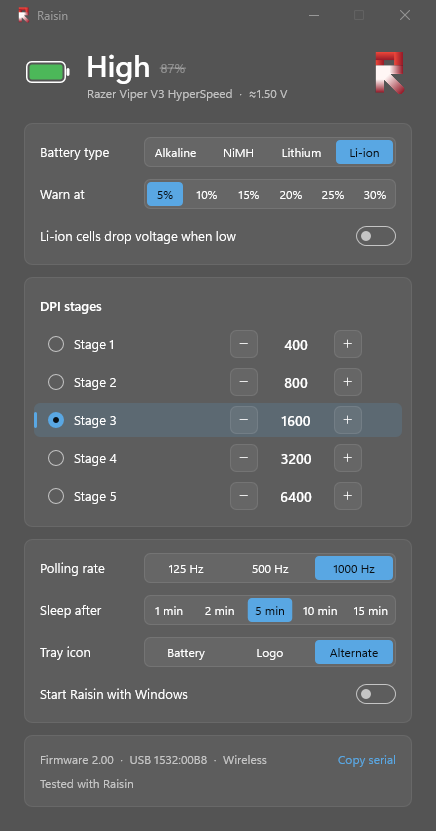
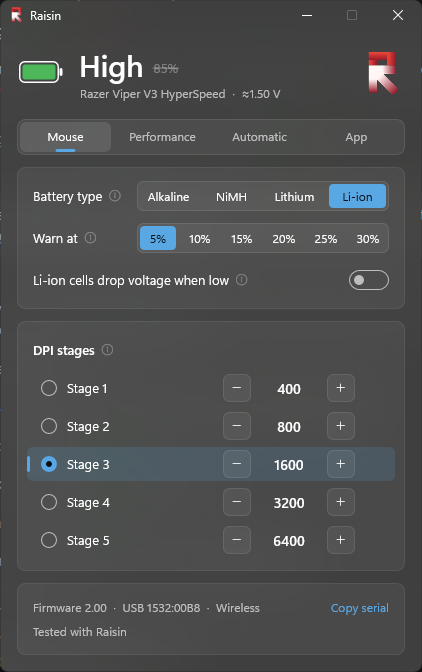
Update docs for 0.2.0
New tabbed screenshot, exe size, tray menu and shortcut docs, how events
replace polling, a SECURITY note on foreground-app names and hotkeys, and
module comments that still described the old single-page window.

diff --git a/src/auto.rs b/src/auto.rs
@@ -1,10 +1,10 @@
 //! Automatic switching: per-app rules and following Windows power.
 //!
 //! While an app with a rule is in front, its power mode and/or DPI stage
-//! apply. With "follow Windows power" on, Power Saver applies while the PC
-//! runs on battery or energy saver is on (an app rule's own power mode
-//! wins). When nothing applies any more, the settings from before the
-//! switch come back.
+//! apply. With "Power Saver on battery or energy saver" on, Power Saver
+//! applies while the PC runs on battery or energy saver is on (an app
+//! rule's own power mode wins). When nothing applies any more, the
+//! settings from before the switch come back.
 //!
 //! This module is pure logic; the tray app watches the foreground window
 //! and power state and writes the result to the mouse.

diff --git a/src/settings.rs b/src/settings.rs
@@ -1,8 +1,9 @@
 //! Settings window: custom-drawn with Direct2D/DirectWrite on a Windows 11
 //! acrylic backdrop. Follows the system light/dark theme and accent color.
 //!
-//! The layout adapts to the connected mouse: cards and rows only appear for
-//! features it has, and the window resizes to fit. It runs as its own
+//! The layout adapts to the connected mouse: tabs, cards and rows only
+//! appear for features it has. The window is as tall as its tallest tab and
+//! scrolls when the screen is too small. It runs as its own
 //! `raisin.exe --settings` process, so its memory goes back to Windows when
 //! it closes.
 

diff --git a/src/tray.rs b/src/tray.rs
@@ -1,5 +1,6 @@
-//! Tray app: battery icon, right-click menu, and an on-demand stage editor.
-//! Everything is plain Win32; the editor window only exists while open.
+//! Tray app: battery icon, right-click menu, automatic switching, the DPI
+//! popup and keyboard shortcuts. Everything here is plain Win32 and GDI;
+//! the Direct2D settings window runs as its own `--settings` process.
 
 use std::cell::RefCell;
 use std::mem::{size_of, zeroed};

diff --git a/src/hid.rs b/src/hid.rs
@@ -1,5 +1,6 @@
-//! Minimal Windows HID transport: enumerate HID interfaces and exchange
-//! feature reports. No external HID library, just SetupAPI + hid.dll.
+//! Minimal Windows HID transport: enumerate HID interfaces, exchange
+//! feature reports, and read input reports (mouse events). No external HID
+//! library, just SetupAPI + hid.dll.
 
 use std::ffi::c_void;
 use std::mem::{size_of, zeroed};

diff --git a/README.md b/README.md
@@ -6,7 +6,7 @@
 
 <p align="center">
   A tiny, fast replacement for Razer Synapse, for 118 Razer mice.<br>
-  DPI stages, polling rate, battery, scroll wheel and sleep settings, from a ~500 KB exe that idles at about 2 MB of memory.
+  DPI stages, polling rate, battery, power modes and per-app switching, from a ~550 KB exe that idles at about 2 MB of memory.
 </p>
 
 <p align="center">
@@ -16,7 +16,7 @@
 </p>
 
 <p align="center">
-  <img src="docs/screenshot.png" width="436" alt="Raisin settings window for a Viper V3 HyperSpeed: a Li-ion battery shown as High with the percentage crossed out, voltage, battery type, DPI stages, polling rate, sleep timer, tray icon options and firmware details">
+  <img src="docs/screenshot.png" width="422" alt="Raisin settings window for a Viper V3 HyperSpeed, on its Mouse tab: a Li-ion battery shown as High with the percentage crossed out, voltage, battery type and warning level, DPI stages, and firmware details, with Performance, Automatic and App tabs above">
 </p>
 
 ## Why
@@ -25,7 +25,7 @@ Synapse is a large Electron app with several background services, and it typical
 
 | | Raisin |
 |---|---|
-| Download | one `raisin.exe`, about 500 KB, no installer |
+| Download | one `raisin.exe`, about 550 KB, no installer |
 | Memory, in the tray | about 2 MB |
 | Memory, settings window open | about 11 MB (a separate process that exits when you close it) |
 | Drivers or services | none |
@@ -46,9 +46,9 @@ Synapse is a large Electron app with several background services, and it typical
 - **Info bubbles**: hover an (i) next to a setting to see what it does.
 - **Mouse details**: model, firmware version, USB ID, connection, and a one-click serial number copy for warranty claims.
 - **Tray icon**: battery gauge, logo, or alternating between them.
-- **Start with Windows**, and a **command line** for scripts and hotkeys.
+- **Start with Windows**, and a **command line** for scripts.
 
-The settings window only shows what your mouse supports, and settings are written to the mouse's own memory, so they stick even when Raisin isn't running. No RGB lighting control, by design.
+The settings window has four tabs (Mouse, Performance, Automatic, App) and only shows what your mouse supports. Settings are written to the mouse's own memory, so they stick even when Raisin isn't running. No RGB lighting control, by design.
 
 ## Supported mice
 
@@ -65,7 +65,7 @@ The protocol is shared across these mice and the details per model come from Ope
 
 1. Download `raisin.exe` from the [latest release](https://github.com/bladestech/Raisin/releases/latest).
 2. Run it. The tray icon appears; left-click it for settings, right-click for the quick menu.
-3. Optional: turn on **Start Raisin with Windows** in settings.
+3. Optional: turn on **Start Raisin with Windows** on the settings window's App tab.
 
 Requirements: Windows 10 or 11 (x64). The acrylic window background needs Windows 11; Windows 10 gets a solid background. Raisin needs the Microsoft Visual C++ runtime, which most PCs already have. If it won't start, install the [Visual C++ Redistributable](https://learn.microsoft.com/cpp/windows/latest-supported-vc-redist).
 
@@ -75,7 +75,9 @@ If Synapse is installed, quit it first: it overwrites settings and can hold the 
 
 ## Usage
 
-**Tray icon:** hover for battery, DPI and polling rate. Left-click opens settings; right-click opens a menu with the same options.
+**Tray icon:** hover for battery, DPI, polling rate and any automatic rule in effect. Left-click opens settings; right-click opens a quick menu with the everyday options (DPI stage, power mode, polling rate, sleep timer, battery).
+
+**Keyboard shortcuts** (turn on in Settings > App): Ctrl+Alt+= and Ctrl+Alt+- step through DPI stages, Ctrl+Alt+P cycles Power Saver, Balanced and Max.
 
 **Command line:**
 
@@ -112,9 +114,11 @@ The voltage shown is approximate: it's measured by the mouse under load, so it r
 
 Razer mice show up in Windows as standard HID devices. Raisin sends Razer's 90-byte configuration packets as HID feature reports through Windows' built-in `hid.dll`, the same path Synapse uses, without any kernel driver, service or admin rights.
 
-The tray process uses only plain Win32. The settings window is drawn with Direct2D and DirectWrite on a Windows 11 acrylic backdrop and runs as a separate `raisin.exe --settings` process, so the graphics libraries' memory is returned to Windows when you close it.
+The tray process uses only plain Win32 and GDI. The settings window is drawn with Direct2D and DirectWrite on a Windows 11 acrylic backdrop and runs as a separate `raisin.exe --settings` process, so the graphics libraries' memory is returned to Windows when you close it.
 
-Each model's details (USB ID, transaction ID, receiver timing, DPI and polling limits, which features it has) are in a table generated from OpenRazer by [`tools/openrazer_devices.py`](tools/openrazer_devices.py). The packet format and every command Raisin uses, including a few not documented elsewhere (battery type, live cell voltage), are in [docs/protocol.md](docs/protocol.md).
+Apart from reading the battery every 5 minutes, nothing polls in the background. The mouse reports DPI button presses itself, as small input reports that Raisin waits for. Automatic switching hears about the app in front and the power state from Windows notifications.
+
+Each model's details (USB ID, transaction ID, receiver timing, DPI and polling limits, which features it has) are in a table generated from OpenRazer by [`tools/openrazer_devices.py`](tools/openrazer_devices.py). The packet format and every command Raisin uses, including a few not documented elsewhere (battery type, live cell voltage, the DPI button event), are in [docs/protocol.md](docs/protocol.md).
 
 ## Building from source
 
@@ -140,7 +144,7 @@ See [CONTRIBUTING.md](CONTRIBUTING.md) for checks to run before opening a pull r
 
 ## Disclaimer
 
-Raisin is an independent project. It is not affiliated with, endorsed by, or supported by Razer Inc. "Razer", "Synapse", "Viper" and "HyperSpeed" are trademarks of Razer Inc. Raisin only sends configuration commands that have been verified on real hardware, but you use it at your own risk.
+Raisin is an independent project. It is not affiliated with, endorsed by, or supported by Razer Inc. "Razer", "Synapse", "Viper" and "HyperSpeed" are trademarks of Razer Inc. Raisin only sends configuration commands from OpenRazer's driver or ones verified on real hardware, but you use it at your own risk.
 
 ## Credits
 

diff --git a/SECURITY.md b/SECURITY.md
@@ -1,3 +1,10 @@
 # Security
 
-Raisin runs without admin rights, has no network access, and only talks to Razer USB devices. If you find a security problem anyway, please report it privately through GitHub's [private vulnerability reporting](https://github.com/bladestech/Raisin/security/advisories/new) rather than a public issue.
+Raisin runs without admin rights, has no network access, and only talks to Razer USB devices. The links in its About section open in your browser; Raisin itself never connects to anything.
+
+Two features look at the rest of your PC:
+
+- **Automatic switching** reads the file name of the app in front (for example `cs2.exe`) to match your rules. It isn't logged, stored or sent anywhere; only the rules you add are saved, in `%APPDATA%\Raisin\settings.txt`.
+- **Keyboard shortcuts** (off by default) are registered with Windows' `RegisterHotKey`, which only tells Raisin when its own three key combinations are pressed. Raisin never sees other typing.
+
+If you find a security problem anyway, please report it privately through GitHub's [private vulnerability reporting](https://github.com/bladestech/Raisin/security/advisories/new) rather than a public issue.

diff --git a/CONTRIBUTING.md b/CONTRIBUTING.md
@@ -24,7 +24,7 @@ Add a line to `CHANGELOG.md` under "Unreleased" for anything a user would notice
 
 ## Keeping it light
 
-Raisin's point is to be small. Please keep the tray process free of heavy dependencies; check its memory (Task Manager, "Memory" column) before and after a change. Anything graphical belongs in the settings window, which runs as its own process.
+Raisin's point is to be small. Please keep the tray process free of heavy dependencies; check its memory (Task Manager, "Memory" column) before and after a change. It idles at about 2 MB. The tray may draw small things with plain GDI, like the DPI popup. Direct2D and anything bigger belong in the settings window, which runs as its own process. Don't add polling: prefer events the mouse or Windows sends, as the DPI popup and automatic switching do.
 
 ## Protocol changes
 

diff --git a/docs/protocol.md b/docs/protocol.md
@@ -139,7 +139,7 @@ Read-only probing (`raisin scan`) also found these, with meanings not yet known:
 
 ## Events from the mouse
 
-The mouse also sends small input reports by itself, on the receiver's vendor collections (interface `mi_01`, the generic-desktop collections with usage `0x0000`; collection 6 on the Viper V3 HyperSpeed). They can be read with a plain `ReadFile`, with no polling.
+**Raisin finding.** The mouse also sends small input reports by itself, on the receiver's vendor collections (interface `mi_01`, the generic-desktop collections with usage `0x0000`; collection 6 on the Viper V3 HyperSpeed). They can be read with a plain `ReadFile`, with no polling.
 
 | Report | Meaning |
 |---|---|
